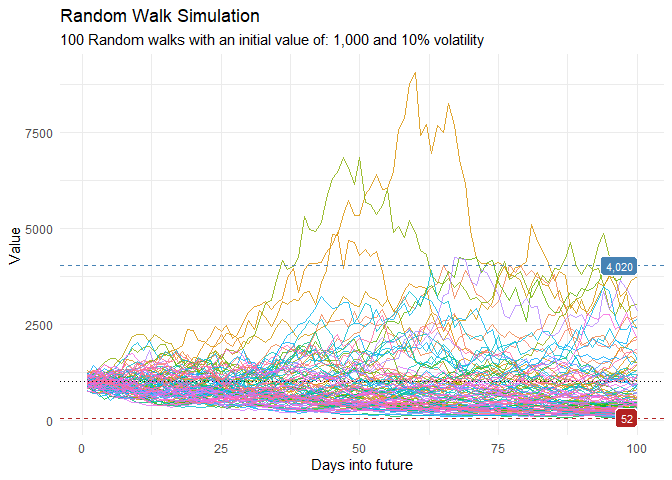
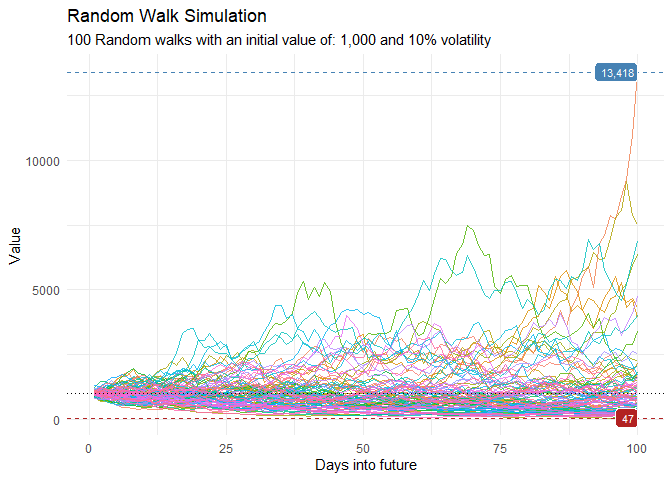
rebuild readme

diff --git a/README.md b/README.md
@@ -47,14 +47,14 @@ df <- ts_random_walk()
 
 head(df)
 #> # A tibble: 6 × 4
-#>     run     x        y cum_y
-#>   <dbl> <dbl>    <dbl> <dbl>
-#> 1     1     1  0.163   1163.
-#> 2     1     2 -0.0215  1138.
-#> 3     1     3 -0.183    930.
-#> 4     1     4  0.00974  939.
-#> 5     1     5  0.0599   995.
-#> 6     1     6  0.0877  1082.
+#>     run     x       y cum_y
+#>   <dbl> <dbl>   <dbl> <dbl>
+#> 1     1     1  0.0125 1012.
+#> 2     1     2 -0.0836  928.
+#> 3     1     3 -0.0747  859.
+#> 4     1     4  0.192  1024.
+#> 5     1     5  0.142  1169.
+#> 6     1     6  0.0830 1266.
 ```
 
 Now that the data has been generated, lets take a look at it.
